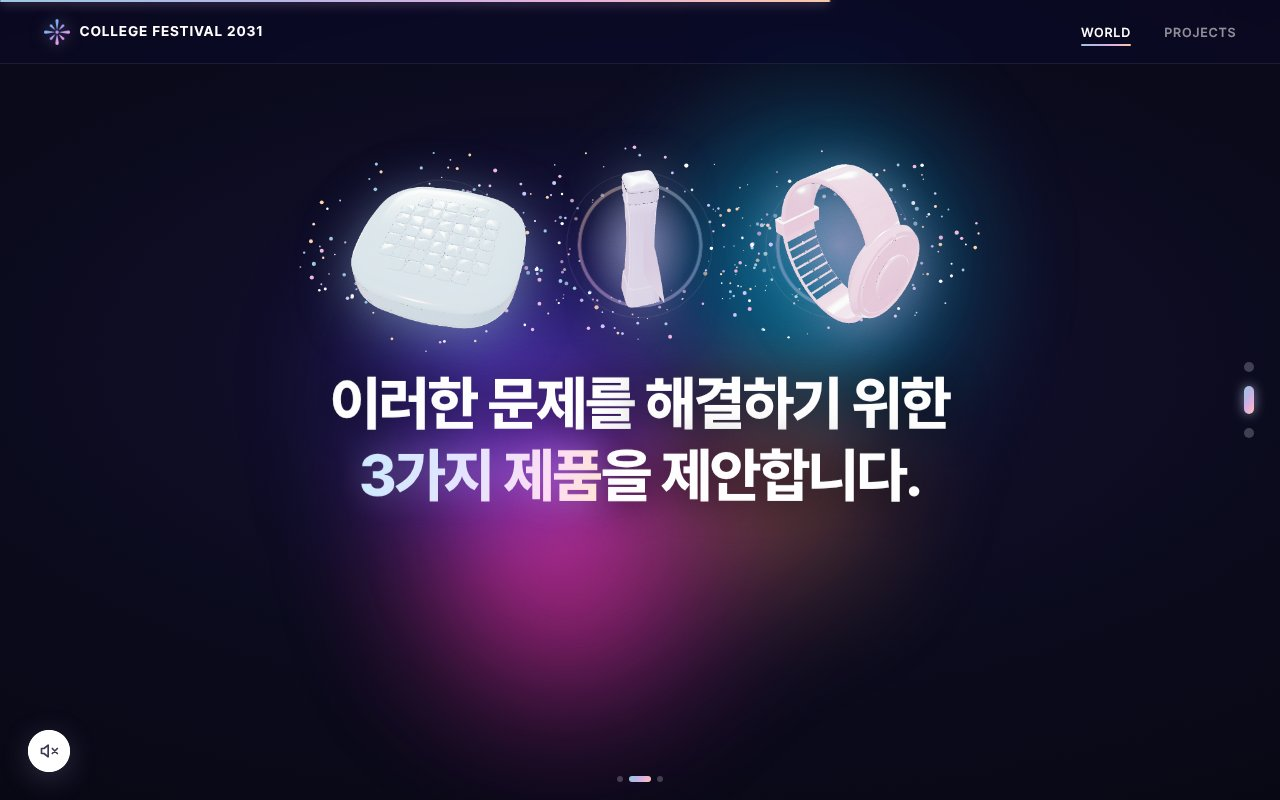
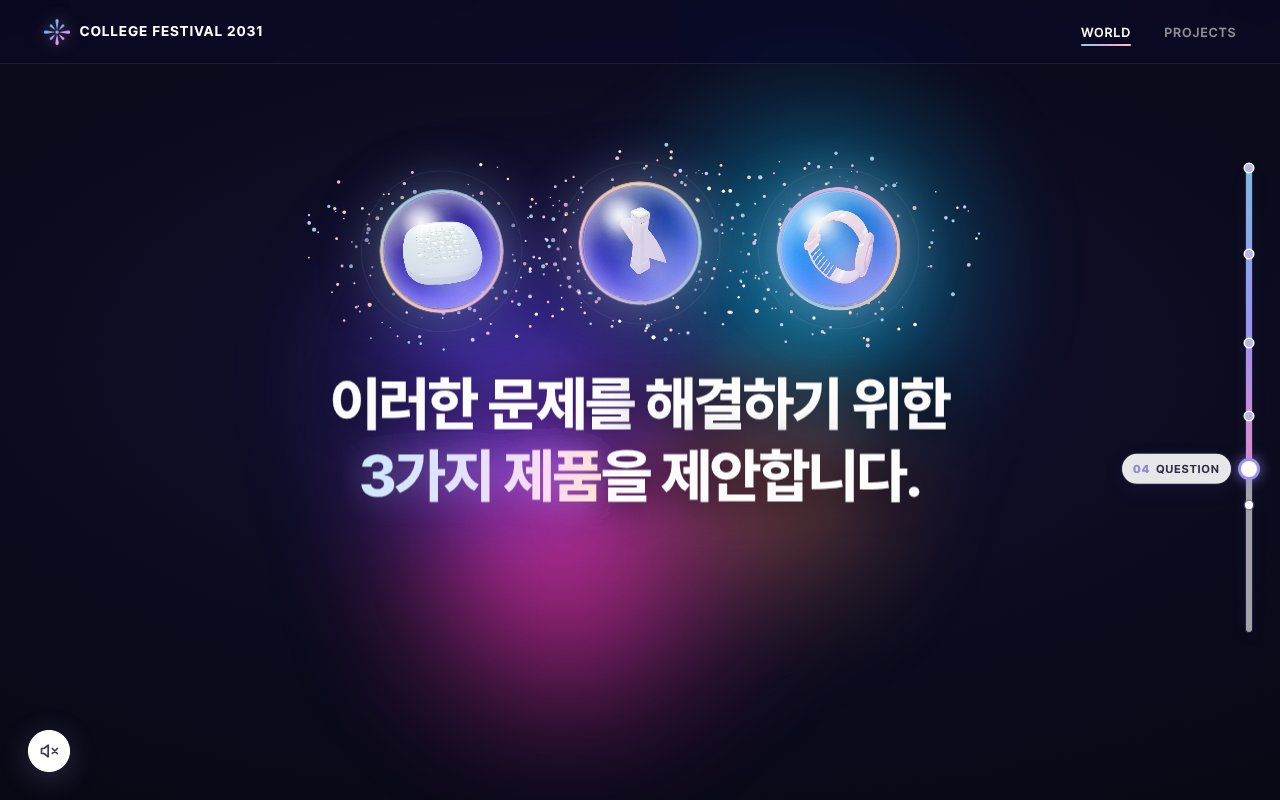
'3가지 제품' 장면: 제품을 작게 줄여 유리 구슬 안에 든 아이템처럼 (구슬 하이라이트·안쪽 테두리 오버레이)
Claude-Session: https://claude.ai/code/session_01MVD1fmE3ZHHAawXfDg3rwx

diff --git a/assets/css/style.css b/assets/css/style.css
@@ -525,9 +525,11 @@ body{word-break:keep-all;overflow-wrap:break-word}
 .t-core:nth-child(1){--tint:rgba(156,200,226,.6);--glow:rgba(156,200,226,.5)}
 .t-core:nth-child(2){--tint:rgba(201,198,255,.6);--glow:rgba(184,182,229,.6)}
 .t-core:nth-child(3){--tint:rgba(242,182,227,.6);--glow:rgba(232,176,221,.5)}
-.t-core .t-model{position:absolute;left:-12%;top:-12%;width:124%;height:124%;z-index:2;pointer-events:none;filter:drop-shadow(0 10px 26px var(--glow,rgba(184,182,229,.55)))}
-.t-core.has-model .lens{background:radial-gradient(circle,var(--glow,rgba(184,182,229,.5)),rgba(255,255,255,0) 68%);border:0;box-shadow:none;-webkit-backdrop-filter:none;backdrop-filter:none;opacity:.8}
-.t-core.has-model .lens::after{opacity:.55}
+.t-core .t-model{position:absolute;left:21%;top:21%;width:58%;height:58%;z-index:2;pointer-events:none;border-radius:50%;filter:drop-shadow(0 4px 10px rgba(60,50,140,.35))}
+/* glass marble over the product: highlight + inner rim so it reads as an item inside the orb */
+.t-core.has-model::after{content:"";position:absolute;inset:14%;border-radius:50%;z-index:3;pointer-events:none;
+  background:radial-gradient(circle at 32% 25%,rgba(255,255,255,.8),rgba(255,255,255,.14) 16%,rgba(255,255,255,0) 32%),radial-gradient(circle at 68% 80%,rgba(255,255,255,.22),rgba(255,255,255,0) 38%);
+  box-shadow:inset 0 0 26px rgba(255,255,255,.4),inset -10px -16px 30px rgba(91,75,255,.28),inset 8px 10px 22px rgba(255,255,255,.18)}
 .t-core i{position:absolute;inset:0;border-radius:50%;border:1px solid rgba(255,255,255,.2);animation:coreRing 4.5s linear infinite}
 .t-core i:nth-child(2){animation-delay:-2.25s}
 @keyframes coreRing{from{transform:scale(.5);opacity:.8}to{transform:scale(1.45);opacity:0}}

diff --git a/index.html b/index.html
@@ -5,7 +5,7 @@
 <meta name="viewport" content="width=device-width, initial-scale=1">
 <title>College Festival 2031</title>
 <link rel="icon" type="image/png" href="assets/images/logo.png">
-<link rel="stylesheet" href="./assets/css/style.css?v=141acb9f">
+<link rel="stylesheet" href="./assets/css/style.css?v=e8b6ba44">
 </head>
 <body>
 
